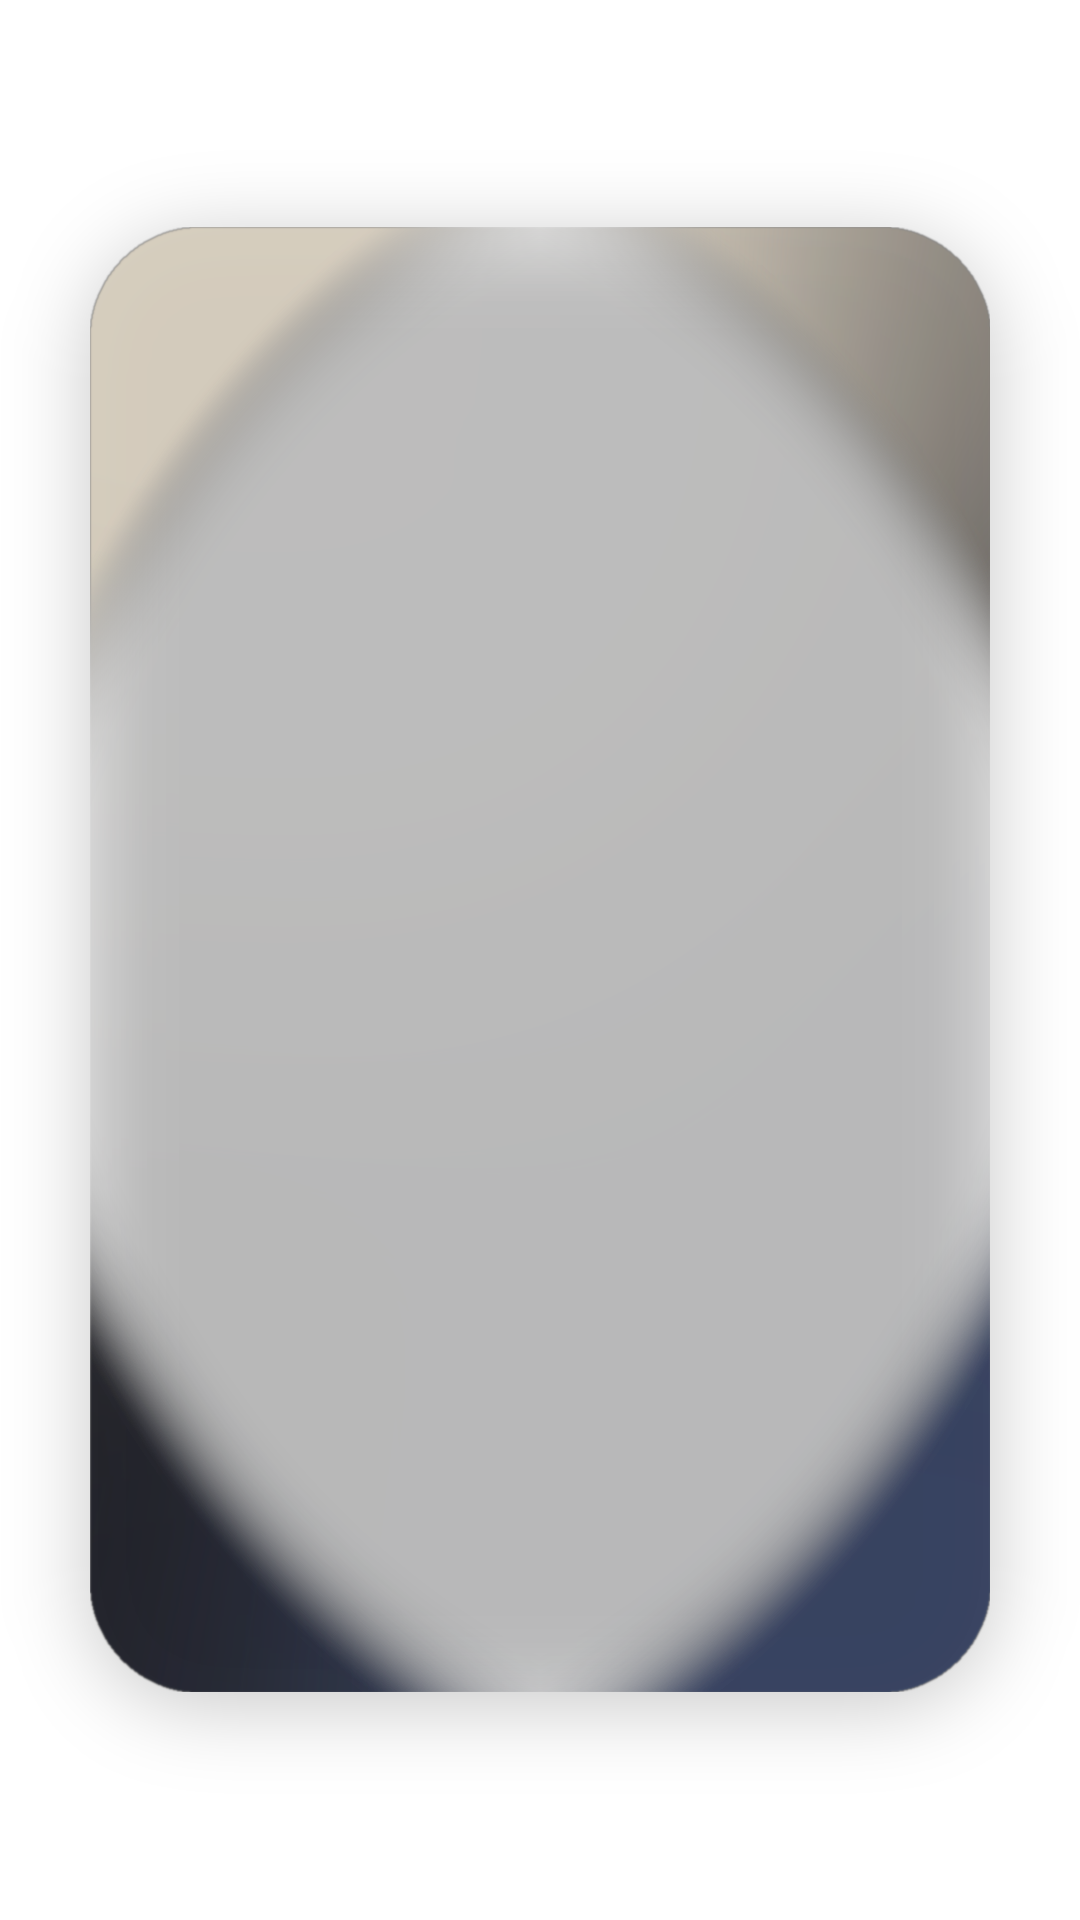
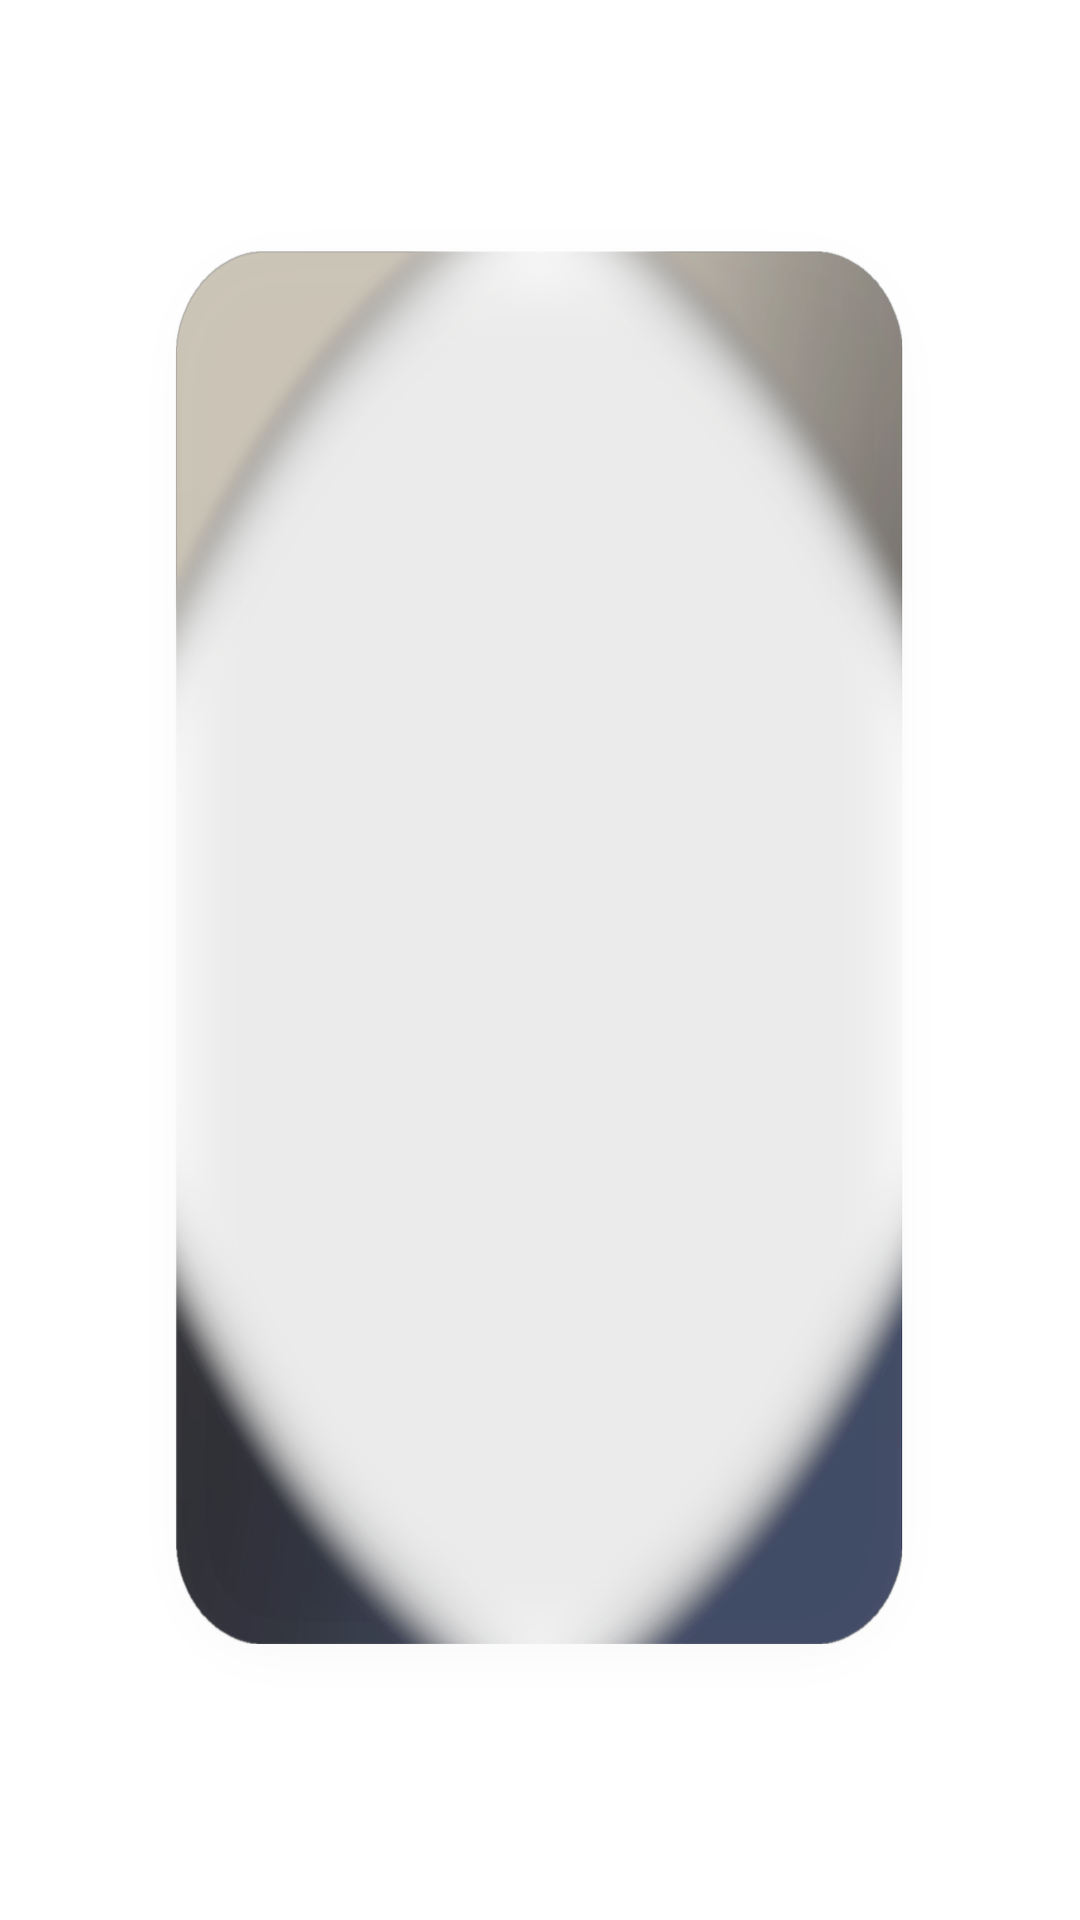
Layout ulang template Glass sesuai mock-up: card, sampul, progress bar, kontrol, volume & badge AirPlay disamain ukuran/posisi

diff --git a/src/data/templates.ts b/src/data/templates.ts
@@ -186,14 +186,13 @@ export const TEMPLATES: Template[] = [
         opacity: 100,
         adjustable: true,
         liquidGlass: {
-          // Bbox & radius sudut identik dengan card.png original (biar
-          // posisi cover/kontrol tetep pas), tapi sekarang ini beneran
-          // kaca hidup, bukan gambar mati.
-          x: 8.33,
-          y: 11.875,
-          width: 83.24,
-          height: 76.15,
-          cornerRadius: 72,
+          // Bbox & radius disamain ke mock-up baru (template2_mock-up):
+          // card lebih tinggi & lebar sedikit dikurangi dari sebelumnya.
+          x: 9.63,
+          y: 9.27,
+          width: 80.65,
+          height: 81.41,
+          cornerRadius: 70,
           settings: {
             mode: "standard",
             displacementScale: 70,
@@ -235,10 +234,10 @@ export const TEMPLATES: Template[] = [
         id: "sampul",
         type: "image",
         label: "Foto sampul",
-        x: 13.89,
-        y: 15,
-        width: 72.22,
-        height: 40.57,
+        x: 15.37,
+        y: 12.5,
+        width: 69.17,
+        height: 38.91,
         startSec: 0,
         endSec: 15,
         radius: 36,
@@ -252,13 +251,16 @@ export const TEMPLATES: Template[] = [
         endSec: 15,
       },
     ],
+    // Posisi teks digeser naik & disamain ke tepi kiri baru (15.83, sejajar
+    // progress bar) biar pas sama gap baru antara sampul (habis di ~51.4%)
+    // & progress bar (mulai ~62%) di layout mock-up.
     textLayers: [
       {
         id: "device",
         label: "Nama device",
         defaultText: "psiquiss",
-        x: 13.8,
-        y: 59.4,
+        x: 15.83,
+        y: 54.9,
         fontSize: 30,
         fontWeight: 500,
         color: "rgba(255,255,255,0.65)",
@@ -269,8 +271,8 @@ export const TEMPLATES: Template[] = [
         id: "title",
         label: "Judul",
         defaultText: "new vision",
-        x: 13.8,
-        y: 61.6,
+        x: 15.83,
+        y: 56.9,
         fontSize: 48,
         fontWeight: 800,
         color: "#FFFFFF",
@@ -281,8 +283,8 @@ export const TEMPLATES: Template[] = [
         id: "artist",
         label: "Artist",
         defaultText: "@nyxvoids",
-        x: 13.8,
-        y: 63.6,
+        x: 15.83,
+        y: 58.7,
         fontSize: 28,
         fontWeight: 500,
         color: "rgba(255,255,255,0.65)",
@@ -291,18 +293,18 @@ export const TEMPLATES: Template[] = [
       },
     ],
     durationLayer: {
-      currentX: 13.8,
-      currentY: 69.3,
-      totalX: 86.0,
-      totalY: 69.3,
+      currentX: 15.83,
+      currentY: 64.0,
+      totalX: 84.07,
+      totalY: 64.0,
       fontSize: 32,
       fontWeight: 500,
       color: "rgba(255,255,255,0.7)",
     },
     progressLayer: {
-      x1: 13.8,
-      x2: 86.02,
-      y: 67.29,
+      x1: 15.83, // ≈171/1080, sejajar ujung kiri progressbar.png (mock-up baru)
+      x2: 84.07, // ≈908/1080, sejajar ujung kanan progressbar.png
+      y: 62.03, // ≈1191/1920, tengah track progressbar.png (mock-up baru)
       thickness: 10,
       color: "#FFFFFF",
     },
